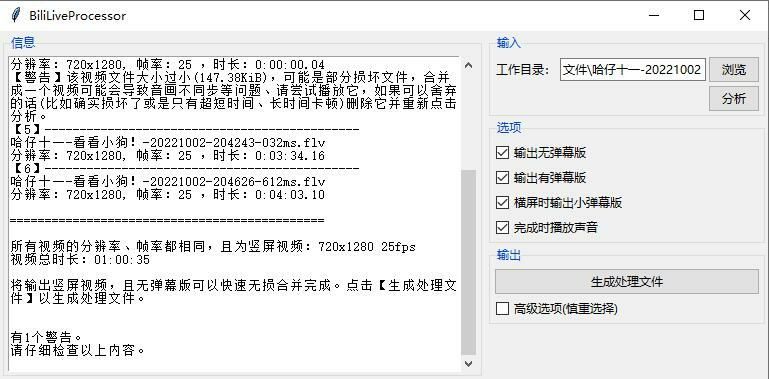
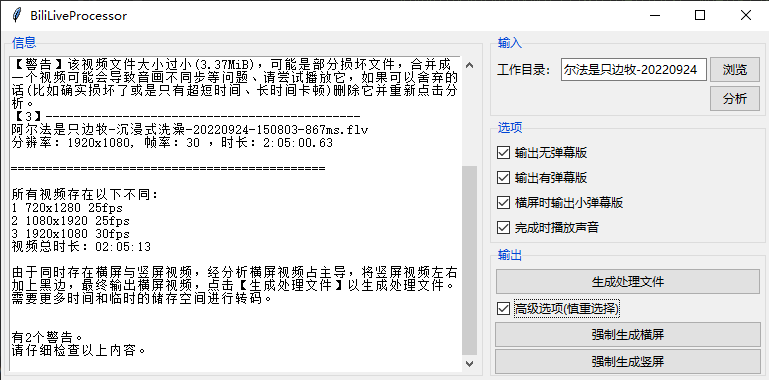
修改错误表述

diff --git a/blptk/analyser.py b/blptk/analyser.py
@@ -225,18 +225,18 @@ def analyse(path, app):
         app.fast_no_danmu = False
         if horizontal == 0:
             app.output_method = 0
-            app.insert_log('将输出竖屏视频，需要更多时间和临时的储存空间进行转码。点击【生成生成处理文件】以生成处理文件。\n')
+            app.insert_log('将输出竖屏视频，需要更多时间和临时的储存空间进行转码。点击【生成处理文件】以生成处理文件。\n')
         elif vertical == 0:
             app.output_method = 1
-            app.insert_log('将输出横屏视频，需要更多时间和临时的储存空间进行转码。点击【生成生成处理文件】以生成处理文件。\n')
+            app.insert_log('将输出横屏视频，需要更多时间和临时的储存空间进行转码。点击【生成处理文件】以生成处理文件。\n')
         else:
             app.insert_log('由于同时存在横屏与竖屏视频，经分析')
             if horizontal / total_duration < 0.1:
                 app.output_method = 0
-                app.insert_log('竖屏视频占主导，将横屏视频上下加上黑边，最终输出竖屏视频，点击【生成生成处理文件】以生成处理文件。')
+                app.insert_log('竖屏视频占主导，将横屏视频上下加上黑边，最终输出竖屏视频，点击【生成处理文件】以生成处理文件。')
             elif vertical / total_duration < 0.1:
                 app.output_method = 1
-                app.insert_log('横屏视频占主导，将竖屏视频左右加上黑边，最终输出横屏视频，点击【生成生成处理文件】以生成处理文件。')
+                app.insert_log('横屏视频占主导，将竖屏视频左右加上黑边，最终输出横屏视频，点击【生成处理文件】以生成处理文件。')
             else:
                 app.output_method = -1
                 app.insert_log('无法确定最终应输出横屏还是竖屏视频，为了观众的观看体验，您可以创建多个文件夹，'

diff --git a/README.MD b/README.MD
@@ -1,21 +1,21 @@
 # b站录播姬视频处理器
 ## 介绍
-[b站录播姬](https://github.com/BililiveRecorder/BililiveRecorder)是一个用于b站直播的工具，它可以同时监控并自动录制多个直播间，还能录制直播时的弹幕。
+[b站录播姬](https://github.com/BililiveRecorder/BililiveRecorder)是一个用于录制b站直播的工具，它可以同时监控并自动录制多个直播间，还能录制直播时的弹幕。
 
 而这其中有许多痛点，比如怎么将录制的弹幕渲染到视频中。<br>
 幸运的是，网上有许多工具可以将xml格式的弹幕文件转换为ass字幕文件，但将字幕渲染到视频中，许多视频编辑软件要么不支持，要么渲染速度慢、渲染质量差。<br>
 [ffmpeg](http://ffmpeg.org/)是一个开源的视频转码工具，用它可以快速地将将字幕渲染到视频中，但缺点是，你需要用命令行来使用它，而且，要渲染高质量的视频，需要多条指令。
 
-但这并不是最常见的痛点。由于(主播)的网络波动，一次直播可能会分为好几个文件，严重的时候可能会有几百甚至上千个文件，这会使合并文件变得极为困难。
+但这并不是最常见的痛点。由于(主播的)网络波动，一次直播可能会分为好几个文件，严重的时候可能会有几百甚至上千个文件，这会使合并文件变得极为困难。
 
-更更糟的是，由于b站直播会根据网络情况自动切换画质，这几百个文件中会混入不同分辨率和帧率的视频，导致它们无法直接合并。
-如果是用手机直播，还会出现一会横屏一会竖屏的情况。
+更糟糕的是，由于b站直播会根据网络情况自动切换画质，这几百个文件中会混入不同分辨率和帧率的视频，导致它们无法直接合并。
+如果是用手机直播，还可能出现一会横屏一会竖屏的情况。
 
-本软件可以自动识别并解决这些情况，并一键处理，将它们合并，根据需求生成有弹幕版、无弹幕版等最终文件。
+本软件可以自动识别并解决这些情况，一键处理、合并视频，根据需求生成有弹幕版、无弹幕版等最终文件。
 
 案例：
 - 有一个录播文件和xml弹幕文件，需要输出一个有弹幕的视频文件。
-- 有多个720x1280 15fps的录播文件需要合并，输出一个720x1280 15fps无损合并的无弹幕版视频，和一个1080x1920 60fps的有弹幕版视频，有弹幕版提高分辨率和帧率是因为低分辨率和帧率下，弹幕看起来会模糊且一卡一卡的。
+- 有多个720x1280 15fps的录播文件需要合并，输出一个720x1280 15fps无损合并的无弹幕版视频，和一个1080x1920 60fps的有弹幕版视频，有弹幕版为什么要提高分辨率和帧率？这是因为低分辨率和帧率下，弹幕看起来会模糊而且一卡一卡的。
 - 有多个视频，同时包含720x1280 15fps，720x1280 25fps，1080x1920 30fps等多个画质，输出1080x1920 60fps的有、无弹幕版两个视频。
 - 有多个视频，多个画质，但都是16:9的横屏视频，需要输出1920x1080的大、小、无弹幕版三个视频，大弹幕版方便手机用户观看，小弹幕版方便电脑用户观看。
 - 有多个视频，主播一开始不小心调成了竖屏直播，在三分钟后调回了横屏。将前面竖屏部分左右两边用黑色填充变成横屏，最终输出横屏视频。
@@ -36,7 +36,7 @@
 如果没有，或是无法正确渲染，你可以关闭硬件渲染，关闭的方式是：<br>
 用文本编辑器打开config.py(或者将它的后缀名修改为.txt，改完记得将后缀名改回.py)，将`n_cuda = True`改为`n_cuda = False`。
 
-双击`BiliLiveProcessor.pyw`，打开软件，根据提示使用。
+双击`BiliLiveProcessor.pyw`以打开软件，根据软件的提示使用。
 
 ## 注意事项
 要处理的视频文件的文件名中必须包含`yyyyMMdd`格式的的日期和`-HHmmss-`的时间。
